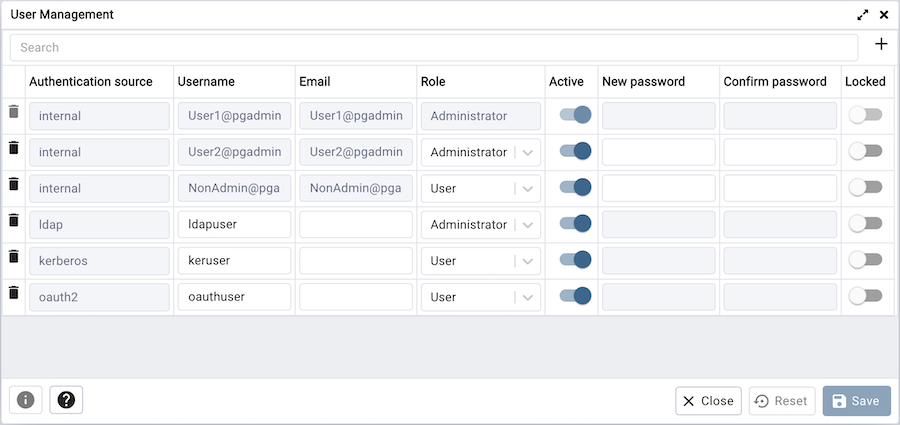
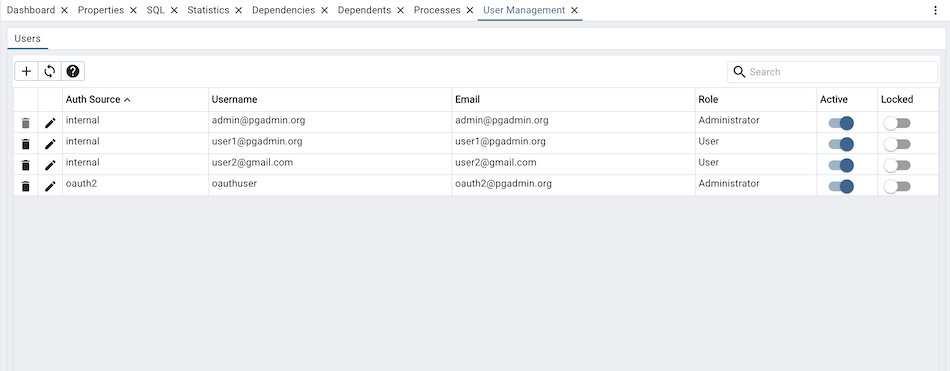
Font family should fallback to Source Code Pro if not valid. #392
Update user management docs.

diff --git a/web/pgadmin/static/js/components/ReactCodeMirror/components/Editor.jsx b/web/pgadmin/static/js/components/ReactCodeMirror/components/Editor.jsx
@@ -53,6 +53,7 @@ import activeLineExtn from '../extensions/activeLineMarker';
 import currentQueryHighlighterExtn from '../extensions/currentQueryHighlighter';
 import { autoCompleteCompartment, eolCompartment, indentNewLine, eol } from '../extensions/extraStates';
 import { OS_EOL } from '../../../../../tools/sqleditor/static/js/components/QueryToolConstants';
+import { useTheme } from '@mui/material';
 
 const arrowRightHtml = ReactDOMServer.renderToString(<KeyboardArrowRightRoundedIcon style={{width: '16px'}} />);
 const arrowDownHtml = ReactDOMServer.renderToString(<ExpandMoreRoundedIcon style={{width: '16px'}} />);
@@ -179,6 +180,7 @@ export default function Editor({
   };
 
   const preferencesStore = usePreferences();
+  const theme = useTheme();
   const editable = !disabled;
 
   const shortcuts = useRef(new Compartment());
@@ -301,9 +303,9 @@ export default function Editor({
 
     const fontSize = calcFontSize(pref.sql_font_size);
     newConfigExtn.push(EditorView.theme({
-      '& .cm-content': {
+      '& .cm-scroller .cm-content': {
         fontSize: fontSize,
-        fontFamily: pref.sql_font_family,
+        fontFamily: `${pref.sql_font_family}, ${theme.typography.fontFamilySourceCode}`,
       },
       '.cm-gutters': {
         fontSize: fontSize,

diff --git a/web/pgadmin/static/js/Theme/index.jsx b/web/pgadmin/static/js/Theme/index.jsx
@@ -38,6 +38,7 @@ basicSettings = createTheme(basicSettings, {
     fontSize: 14,
     htmlFontSize: 14,
     fontFamilyIcon: '"Font Awesome 5 Free"',
+    fontFamilySourceCode: '"Source Code Pro", SFMono-Regular, Menlo, Monaco, Consolas, "Liberation Mono", "Courier New", monospace',
     fontFamily: [
       'Roboto',
       '"Helvetica Neue"',
@@ -367,7 +368,7 @@ function getFinalTheme(baseTheme) {
       flexGrow: 1,
     },
     fontSourceCode: {
-      fontFamily: '"Source Code Pro", SFMono-Regular, Menlo, Monaco, Consolas, "Liberation Mono", "Courier New", monospace',
+      fontFamily: basicSettings.typography.fontFamilySourceCode,
     }
   };
 

diff --git a/web/pgadmin/tools/user_management/static/js/UserDialog.jsx b/web/pgadmin/tools/user_management/static/js/UserDialog.jsx
@@ -35,17 +35,6 @@ class UserSchema extends BaseUISchema {
       current_user['auth_sources'].includes(AUTH_METHODS['INTERNAL']));
   }
 
-  deleteUser(deleteRow) {
-    this.pgAdmin.Browser.notifier.confirm(
-      gettext('Delete user?'),
-      gettext('Are you sure you wish to delete this user?'),
-      deleteRow,
-      function() {
-        return true;
-      }
-    );
-  }
-
   isUserNameEnabled(state) {
     return this.isNew(state) && state.auth_source != AUTH_METHODS['INTERNAL'];
   }

diff --git a/web/pgadmin/tools/user_management/static/js/Users.jsx b/web/pgadmin/tools/user_management/static/js/Users.jsx
@@ -100,7 +100,7 @@ export default function Users() {
       setLoading('');
     };
 
-    pgAdmin.Browser.notifier.confirm(gettext('Delete User'), gettext('Are you sure you want to delete the user %s?', row.original.username),
+    pgAdmin.Browser.notifier.confirmDelete(gettext('Delete User?'), gettext('Are you sure you want to delete the user %s?', `<strong>${row.original.username}</strong>`),
       async () => {
         setLoading(gettext('Deleting user...'));
         try {

diff --git a/web/pgadmin/tools/user_management/__init__.py b/web/pgadmin/tools/user_management/__init__.py
@@ -558,6 +558,7 @@ def create_user(data):
 
     try:
         new_data = validate_user(data)
+        new_data['email'] = new_data['email'] if 'email' in new_data else None
         new_data['password'] = new_data['password']\
             if 'password' in new_data else None
 
@@ -565,7 +566,7 @@ def create_user(data):
             new_data['roles'] = [Role.query.get(new_data['roles'])]
 
     except Exception as e:
-        return False, str(e.description)
+        return False, str(e)
 
     try:
         _create_new_user(new_data)

diff --git a/docs/en_US/user_management.rst b/docs/en_US/user_management.rst
@@ -1,7 +1,7 @@
 .. _user_management:
 
 *******************************
-`User Management Dialog`:index:
+`User Management`:index:
 *******************************
 
 When invoking pgAdmin in desktop mode, a password is randomly generated, and
@@ -9,12 +9,17 @@ then ignored. If you install pgAdmin in server mode, you will be prompted for
 an administrator email and password for the pgAdmin client.
 
 When you authenticate with pgAdmin, the server definitions associated with that
-login role are made available in the tree control.  An administrative user can
-use the *User Management* dialog to:
+login role are made available in the tree control.
 
-* add or delete pgAdmin roles
-* assign privileges
-* manage the password associated with a role
+Users Tab
+*******************
+An administrative user can use the *Users* tab to:
+
+* manage pgAdmin users
+* change users role
+* change password for a user
+* deactivate user
+* unlock a locked user
 
 .. image:: images/user.png
     :alt: pgAdmin user management window
@@ -26,7 +31,8 @@ the following criteria types: *Authentication source*, *Username*, or *Email*.
 For example, you can enter *ldap* in the search box and only the records having
 *ldap* as authentication source will be displayed in the *User Management* table.
 
-To add a user, click the Add (+) button at the top right corner.
+To add a user, click the Add (+) button at the top left corner. It will open a
+dialog where you can fill in details for the new user.
 
 .. image:: images/add_user.png
     :alt: pgAdmin user management window add new user
@@ -34,34 +40,30 @@ To add a user, click the Add (+) button at the top right corner.
 
 Provide information about the new pgAdmin role in the row:
 
-* Use the drop-down list box next to *Authentication source* field to select the
-  type of authentication that should be used for the user. If authentication
-  source is only 'internal' then *Authentication source* field
-  is disabled. Supported *Authentication source* are internal, ldap, kerberos,
-  oauth2 and webserver.
-* Click in the *Username* field, and provide a username for the user. This field
+* Use the *Authentication source* field to select the type of authentication that
+  should be used for the user. If authentication source in the pgAdmin server config
+  has 'internal' only then *Authentication source* field will be disabled. Supported
+  *Authentication source* are internal, ldap, kerberos, oauth2 and webserver.
+* Use the *Username* field to provide a username for the user. This field
   is enabled only when you select authentication source except *internal*. If you
-  select *internal* as authentication source, your email address is displayed in the
-  username field.
-* Click in the *Email* field, and provide an email address for the user.
-* Use the drop-down list box next to *Role* to select whether a user is an
-  *Administrator* or a *User*.
-
+  select *internal* as authentication source, your email address will be taken as
+  the username.
+* Use the *Email* field to provide an email address for the user. Email is a
+  mandatory field for authentication source *internal*.
+* Use the *Role* field to select whether a user is an *Administrator* or a *User*.
    * Select *Administrator* if the user will have administrative privileges
      within the pgAdmin client.
    * Select *User* to create a non-administrative user account.
-
-* Move the *Active* switch to the *No* position if the account is not currently
-  active; the default is *Yes*. Use this switch to disable account activity
-  without deleting an account.
+* Use the *Active* switch to enable or disable account activity without deleting an
+  account; by default it is enabled.
 * Use the *New password* field to provide the password associated with the user
   specified in the *Email* field. This field is disabled if you select any
   authentication source except *internal*.
 * Re-enter the password in the *Confirm password* field. This field is disabled
   if you select *ldap* as authentication source.
-* *Locked* switch is disabled by default when set to *False*. It is only enabled
-  when the user is locked by trying unsuccessful login attempts. Move the switch
-  to the *False* position if you want to unlock the account.
+* *Locked* switch cannot be changed if is turned off. It can only be changed
+  when the user is locked by trying unsuccessful login attempts. Turn off the
+  switch if you want to unlock the account.
 
 To discard a user, and revoke access to pgAdmin, click the trash icon to the
 left of the row and confirm deletion in the *Delete user?* dialog. If the user
@@ -72,9 +74,8 @@ dialog will appear to change the ownership of a shared server.
 Users with the *Administrator* role are able to add, edit and remove pgAdmin
 users, but otherwise have the same capabilities as those with the *User* role.
 
+* Click the *Refresh* button to get latest users list.
 * Click the *Help* button (?) to access online help.
-* Click the *Close* button to save work. You will be prompted to return to the
-  dialog if your selections cannot be saved.
 
 
 Using 'setup.py' command line script

diff --git a/docs/en_US/preferences.rst b/docs/en_US/preferences.rst
@@ -417,9 +417,9 @@ Use the fields on the *Editor* panel to change settings of the query editor.
 * When the *Code folding?* switch is set to *False*, the editor will disable
   code folding. Disabling will improve editor performance with large files.
 
-* Use the *Font family* field to specify the font family that will be used in
-  all SQL text boxes and editors. If the font is not found, the default font
-  of *Source Code Pro* will be used.
+* Use the *Font family* field to be used for all SQL editors. The specified
+  font should already be installed on your system. If the font is not found,
+  the editor will fall back to the default font, Source Code Pro.
 
 * Use the *Font size* field to specify the font size that will be used in text
   boxes and editors.
